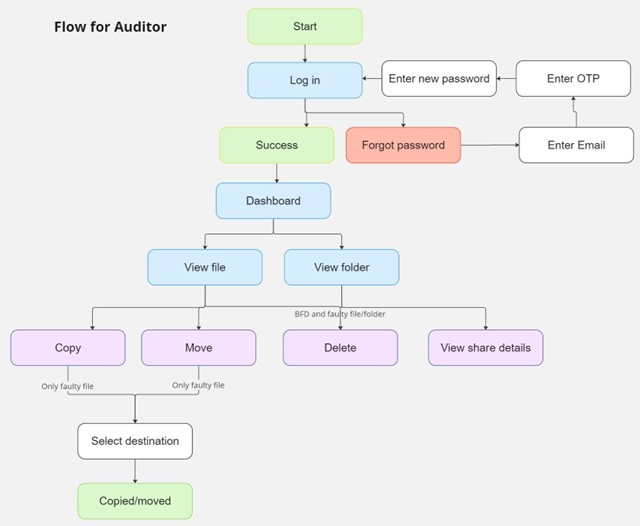
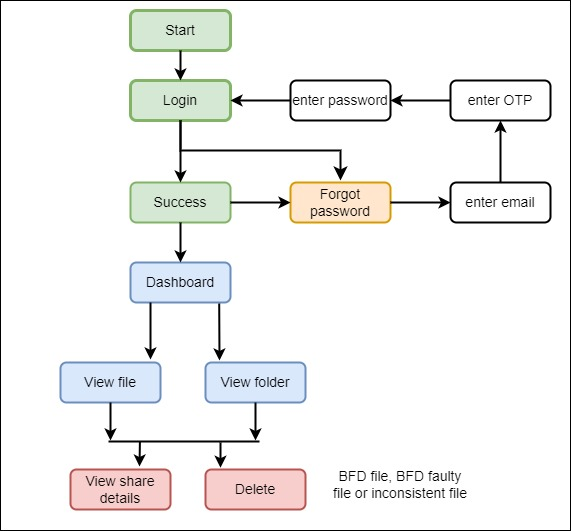
Update

diff --git a/docs/Filemanager HL Application Document.md b/docs/Filemanager HL Application Document.md
@@ -120,8 +120,7 @@ Screen Navigation for Auditor user
 
 **Note**:
 * The auditor can view all the files and folders in the system.   
-* Can perform Copy and Move operation only on a faulty file. (File with Byzantine fault )  
-* Only an auditor can delete a BFD file.  
+* Only an auditor can delete a BFD file, BFD faulty file and inconsistent file.  
 
 Screen Navigation for general user   
 Refer : [UI_screens](/docs/File_Manager_UI_screens.md) for all the UI screens.    
